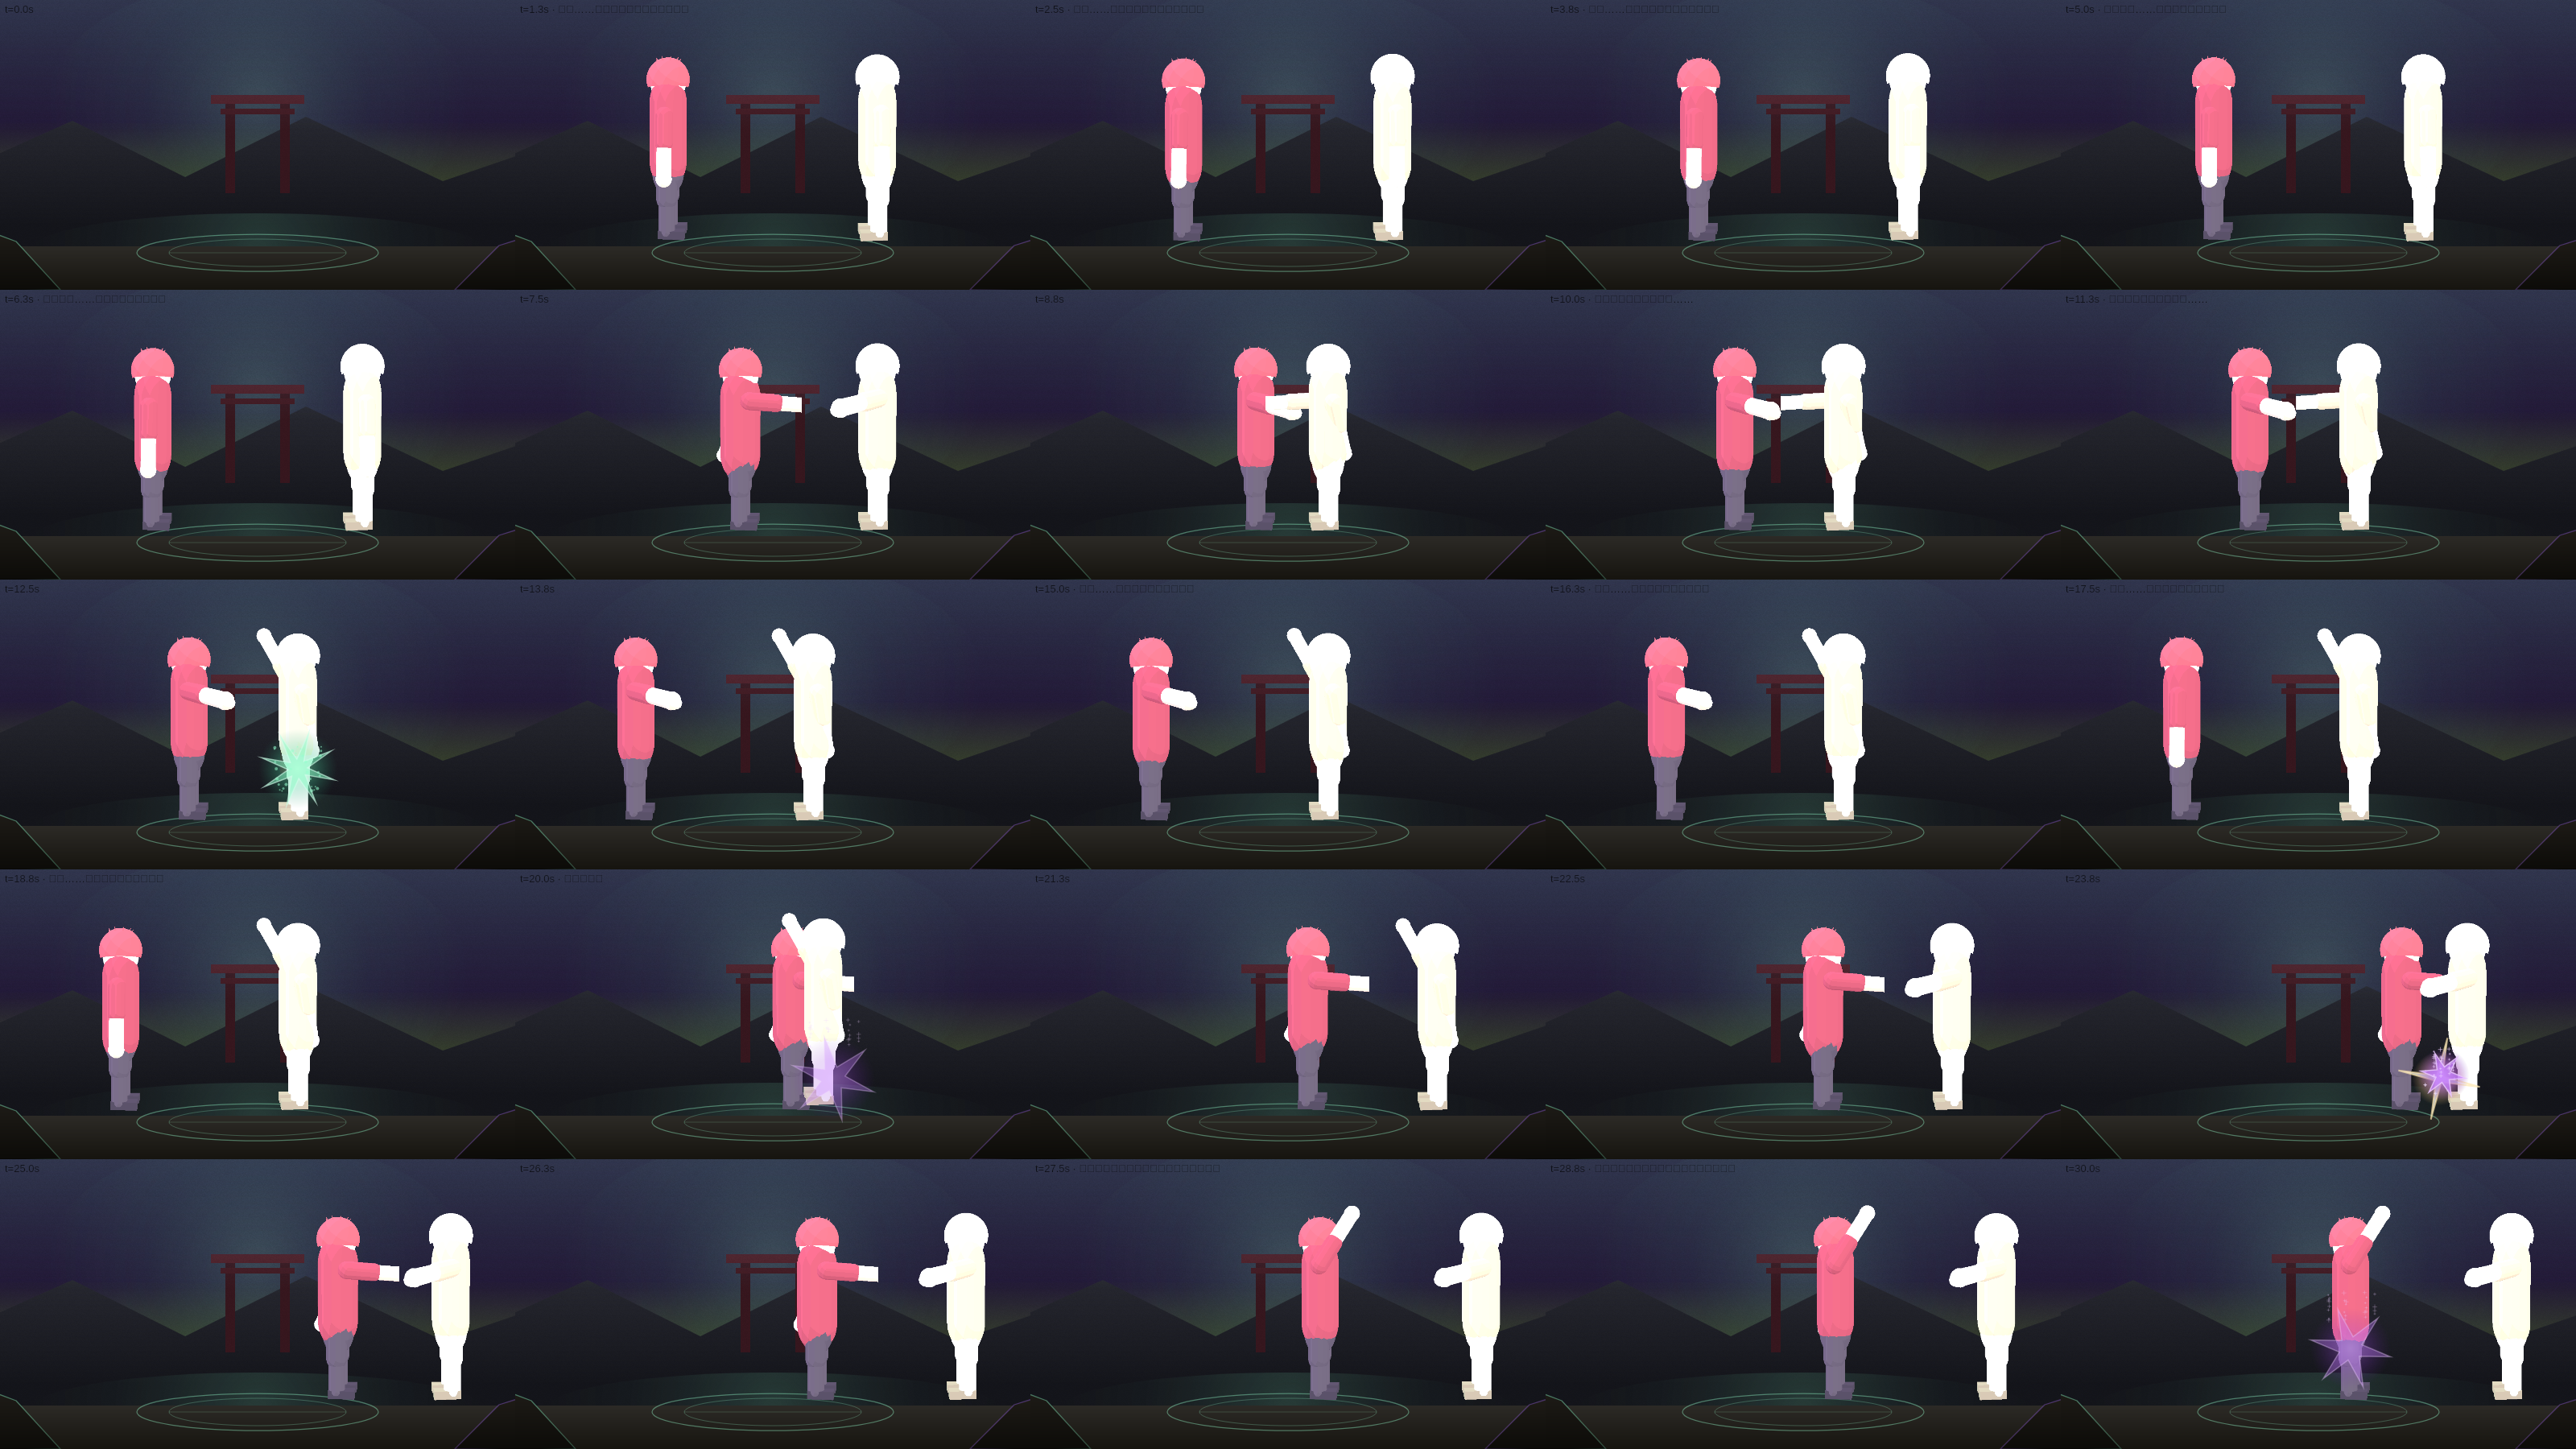
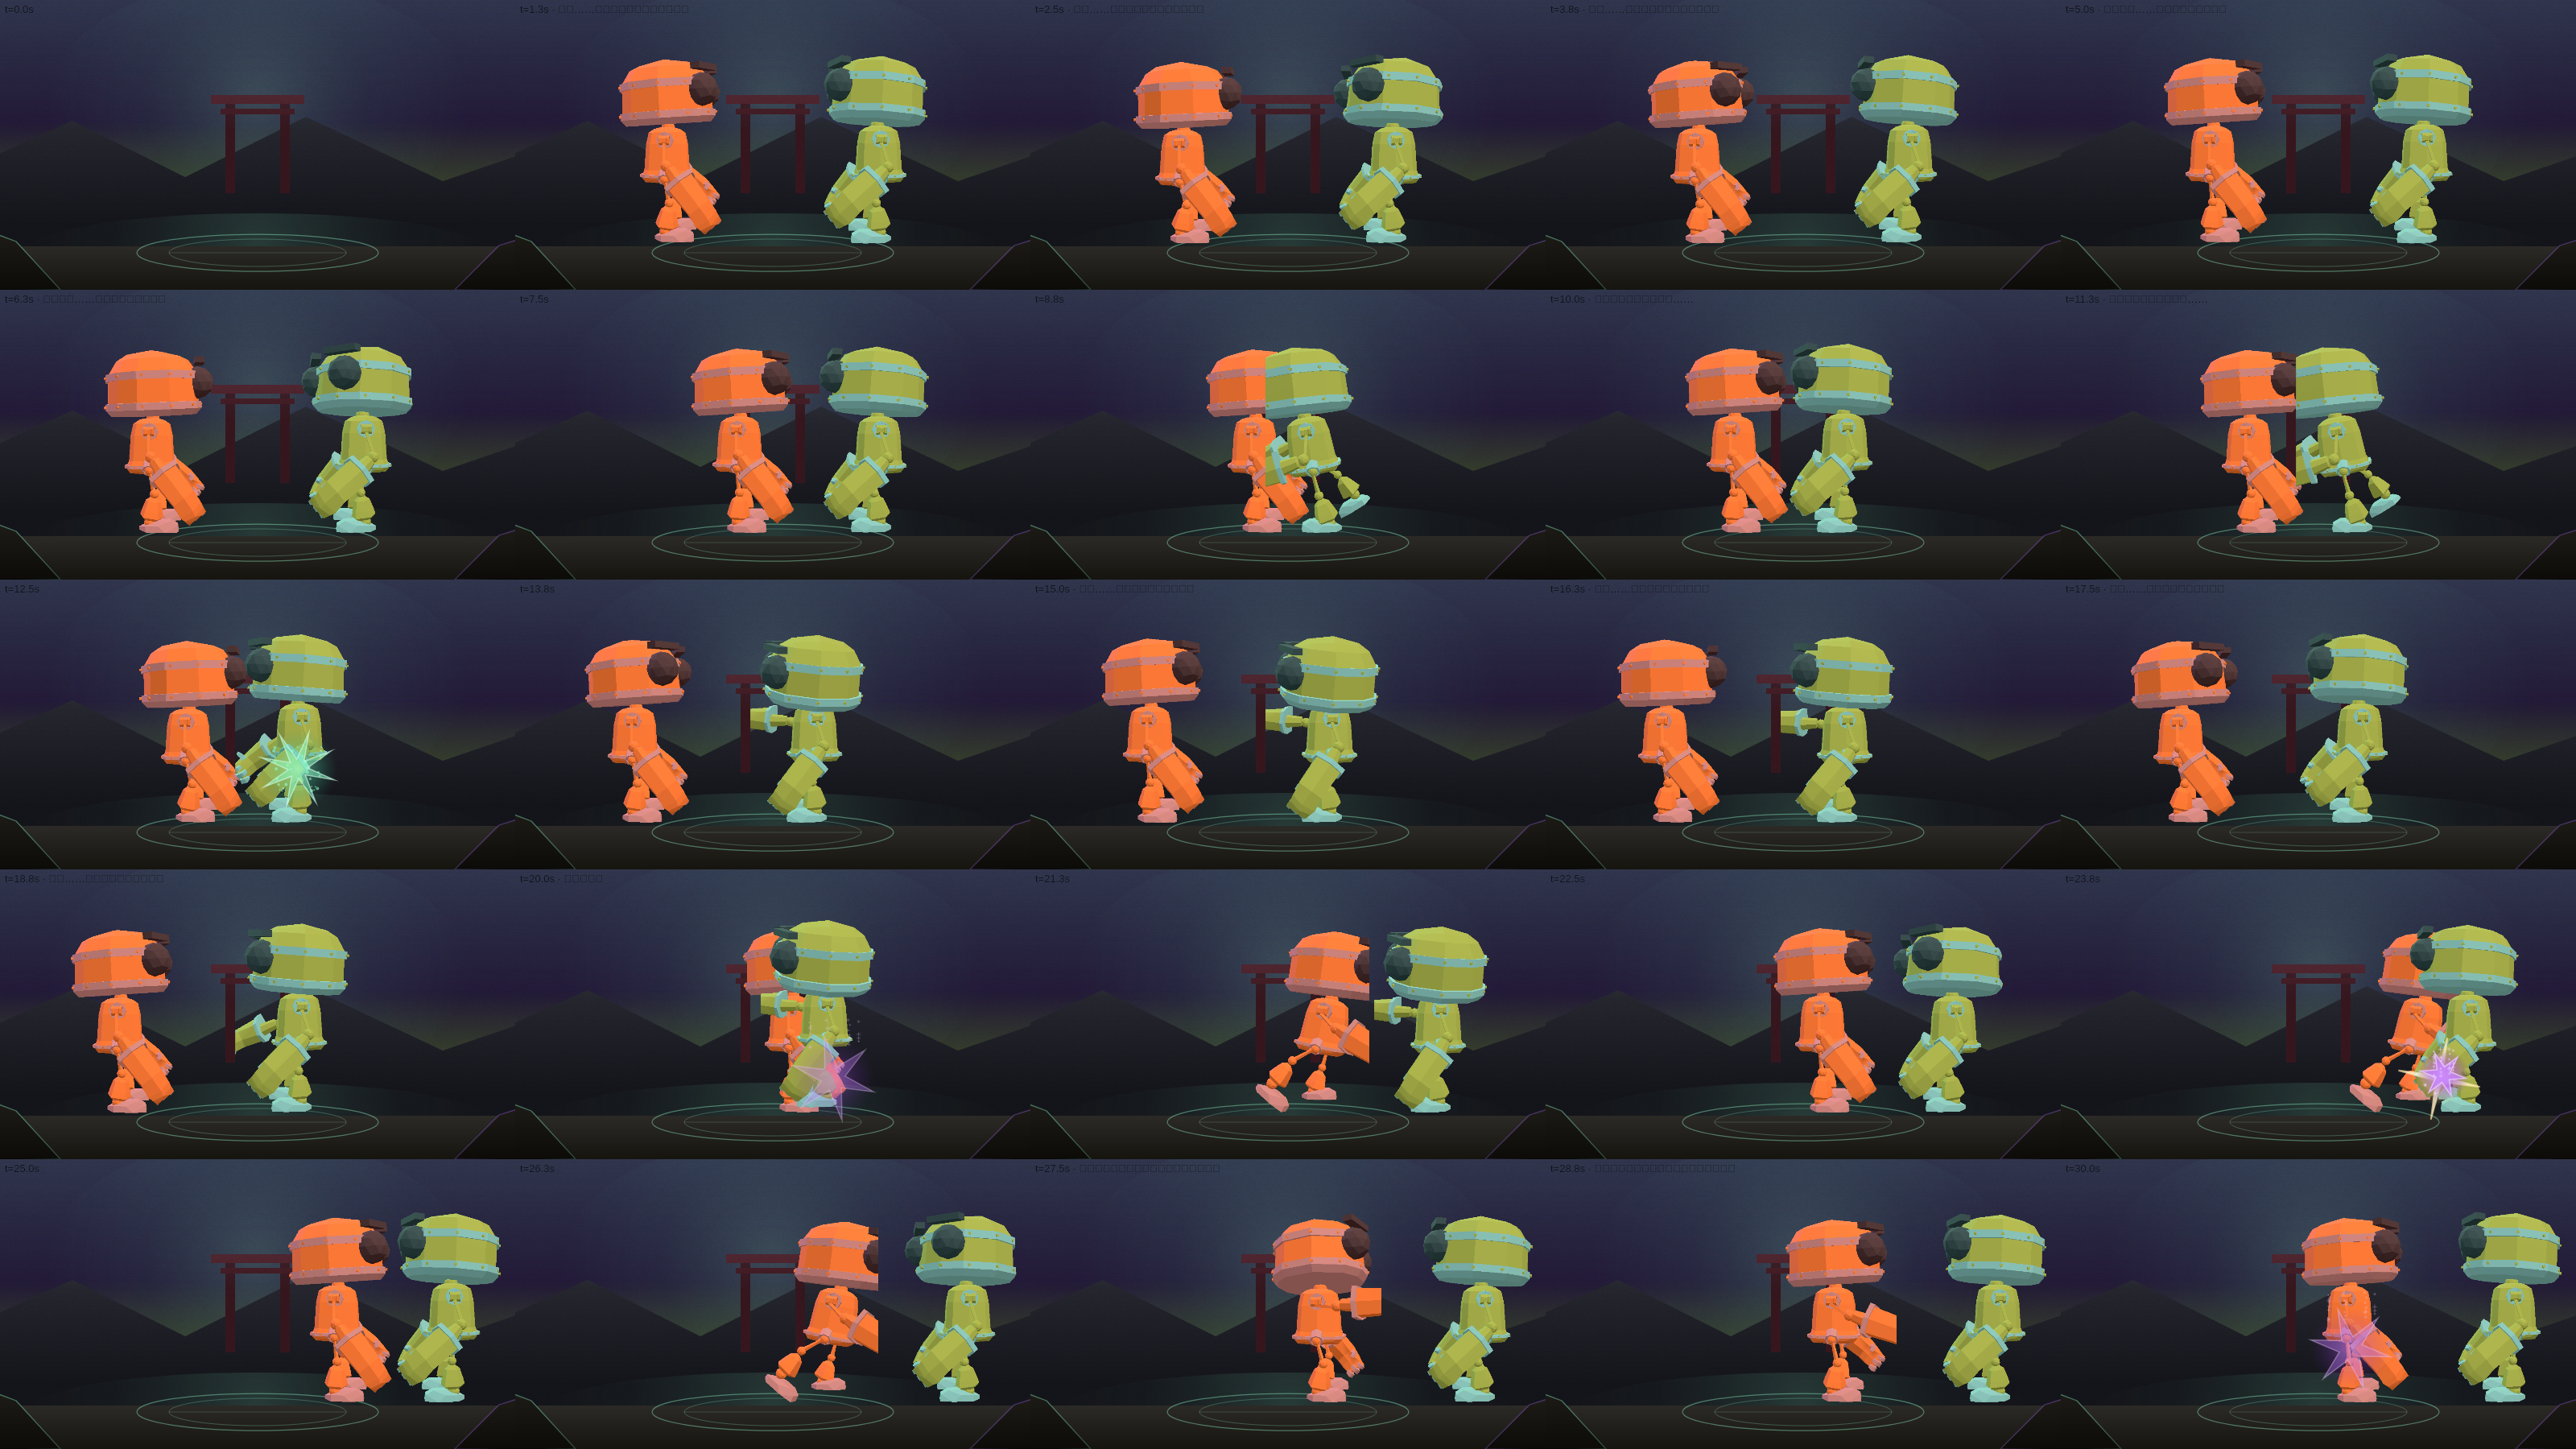
feat(3d): high-poly rigged glTF fighters — big, visible, animated
Pushback was right: the procedural low-poly capsules read as crude blobs and at
wide shots the characters were tiny/unclear. Fix with a real high-poly model.

- gltf3d.mjs: per-clip animation selection (action→clip), colorMul tinting that
  preserves a model's material variation (one model → two distinct fighters),
  original-colour caching (tint can't compound), and camera framing that fills
  ~88% of the cell so characters read large, not as specks.
- The fight now fields three.js RobotExpressive (high-poly, vertex-coloured,
  rigged with Idle/Walking/Punch/ThumbsUp) — red vs teal via colorMul, action→
  clip map {idle:Idle, walking:Walking, attack:Punch, victory:ThumbsUp}. The
  procedural spec humanoid stays as the no-asset fallback.
- qc-render: gltf path passes clip + colorMul through.
- re-rendered the 30s video (renders/fight_3d.mp4) + preview gif + 3D
  storyboard/keyframes with the high-poly fighters.

A real Iori/Orochi image→3D export drops into the same model3d.{gltf,colorMul,
clipMap} slot unchanged. (Generic high-poly demo per the agreed direction — not
KOF-likeness, which needs a real model the sandbox can't generate.)

https://claude.ai/code/session_01VH8Zo7s37gYQt5X1QfLZWe

diff --git a/scripts/qc-render.ts b/scripts/qc-render.ts
@@ -165,7 +165,7 @@ const YAW: Record<string, number> = {
 };
 
 type Render3D = (o: { spec: unknown; yaw: number; action: string; time: number; W: number; H: number; rim: string }) => CanvasImageSource;
-type RenderGltf = (o: { path: string; yaw: number; time: number; W: number; H: number; rim: string; tint?: string }) => CanvasImageSource;
+type RenderGltf = (o: { path: string; yaw: number; time: number; W: number; H: number; rim: string; tint?: string; clip?: string; colorMul?: [number, number, number] }) => CanvasImageSource;
 interface WorldMaps { assetsById: Map<string, AssetManifest>; scenesById: Map<string, AssetManifest>; render3D?: Render3D; renderGltf?: RenderGltf }
 
 // Load whichever 3D backends the library needs: the procedural humanoid
@@ -195,15 +195,16 @@ function composeWorld(ctx: Ctx, st: ReturnType<typeof evaluateTimeline>, t: numb
   for (const ch of st.characters) {
     const a = m.assetsById.get(ch.assetId);
     if (!a) continue;
-    const m3d = (a.metadata as { model3d?: { spec?: unknown; gltf?: string; rim: string; tint?: string } }).model3d;
+    const m3d = (a.metadata as { model3d?: { spec?: unknown; gltf?: string; rim: string; tint?: string; colorMul?: [number, number, number]; clipMap?: Record<string, string> } }).model3d;
     let drew3D = false;
     if (m3d && (m.render3D || m.renderGltf)) {
       try {
         const RW = 360, RH = 620;
         const yaw = YAW[ch.angle] ?? 0;
+        const action = ch.action ?? "idle";
         let im: CanvasImageSource | undefined;
-        if (m3d.gltf && m.renderGltf) im = m.renderGltf({ path: m3d.gltf, yaw, time: t, W: RW, H: RH, rim: m3d.rim, tint: m3d.tint });
-        else if (m3d.spec && m.render3D) im = m.render3D({ spec: m3d.spec, yaw, action: ch.action ?? "idle", time: t, W: RW, H: RH, rim: m3d.rim });
+        if (m3d.gltf && m.renderGltf) im = m.renderGltf({ path: m3d.gltf, yaw, time: t, W: RW, H: RH, rim: m3d.rim, tint: m3d.tint, colorMul: m3d.colorMul, clip: m3d.clipMap?.[action] ?? m3d.clipMap?.idle });
+        else if (m3d.spec && m.render3D) im = m.render3D({ spec: m3d.spec, yaw, action, time: t, W: RW, H: RH, rim: m3d.rim });
         if (im) {
           const s = (610 * ch.scale) / RH;
           ctx.drawImage(im, ch.x - (RW * s) / 2, ch.y - RH * s + 14 * ch.scale, RW * s, RH * s);

diff --git a/deliverables/kof-orochi/README.md b/deliverables/kof-orochi/README.md
@@ -119,15 +119,23 @@ xvfb-run -a node --import tsx scripts/qc-render.ts --kind video \
   --duration 30 --fps 24 --out deliverables/kof-orochi/renders/fight_3d.mp4
 ```
 
-### High-fidelity glTF path (proven)
+### High-poly glTF fighters (the fight video uses these)
 `scripts/lib/gltf3d.mjs` loads + animates + renders any **rigged glTF/GLB**
-(three.js `GLTFLoader` + `AnimationMixer`, headless). Demo:
-`renders/gltf_demo.png` is `models/CesiumMan.glb` walking with its own skeletal
-clip across a turn. A character whose `metadata.model3d` is `{ "gltf": "x.glb" }`
-renders through this instead of the procedural humanoid — so an image→3D export
-(from `cucumber-3d-fetcher`: Tripo / Hunyuan3D / Meshy) drops in with no engine
-change. (Embedded GLB textures don't decode headlessly yet — models render
-untextured / tinted; a texture-decode polyfill is the follow-up.)
+(three.js `GLTFLoader` + `AnimationMixer`, headless). The fight now fields
+**three.js `RobotExpressive`** (`models/RobotExpressive.glb`) — a high-poly,
+vertex-coloured rigged character with Idle / Walking / **Punch** / ThumbsUp
+clips. One model fields both fighters via `model3d.colorMul` (red vs teal) with
+an action→clip map; framing fills ~88 % of the cell so characters read large,
+not as distant specks. `models/CesiumMan.glb` is the simpler walk demo
+(`renders/gltf_demo.png`).
+
+A character's `metadata.model3d` is `{ gltf, colorMul?, clipMap?, rim }` — so an
+**image→3D export of the real Iori/Orochi** (from `cucumber-3d-fetcher`: Tripo /
+Hunyuan3D / Meshy) drops straight in with no engine change; the procedural
+`spec` humanoid is the no-asset fallback. (Embedded GLB *textures* don't decode
+headlessly yet — vertex-coloured models like RobotExpressive look right;
+texture-mapped ones render untextured. A texture-decode polyfill is the
+follow-up.)
 
 **Honest scope:** these are *procedural low-poly* 3D figures (capsules/boxes,
 coloured per fighter) — they prove real 3D rotation/articulation but are not